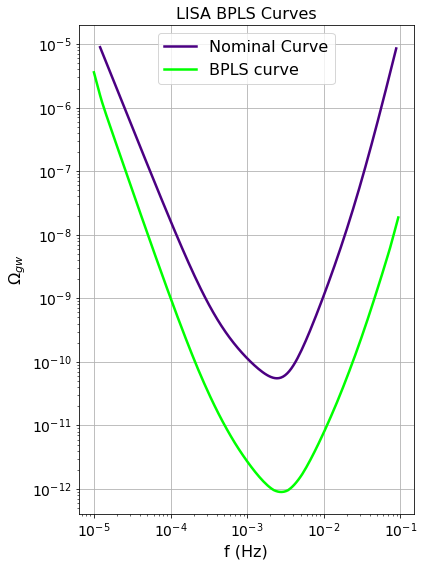
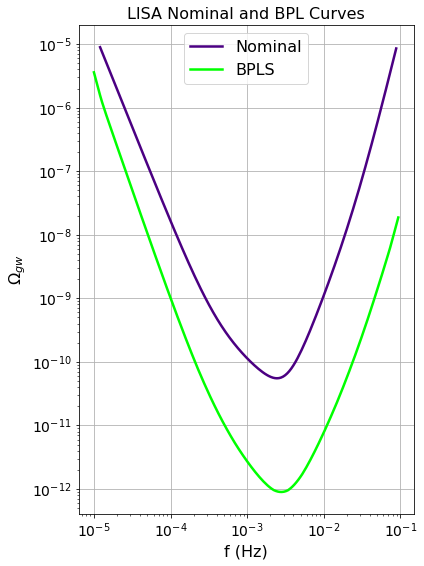
plot edits

Changed region(s): [[0.3066, 0.0, 0.8585, 0.1502]]

diff --git a/datafileBPLS.py b/datafileBPLS.py
@@ -179,11 +179,11 @@ fbplo = np.load("FtabLISA.npy")
 #%%
 
 plt.figure(figsize=(6, 9))
-plt.loglog(freqvals, sigvals, label = "Nominal Curve", color = "indigo", linewidth=2.5)
-plt.loglog(np.exp(fbplo[:,0]), np.exp(fbplo[:,1]), label = "BPLS curve", color = "lime", linewidth=2.5)
+plt.loglog(freqvals, sigvals, label = "Nominal", color = "indigo", linewidth=2.5)
+plt.loglog(np.exp(fbplo[:,0]), np.exp(fbplo[:,1]), label = "BPLS", color = "lime", linewidth=2.5)
 plt.grid(True)
-plt.title("LISA BPLS Curves", fontsize = 16)
-plt.legend(fontsize = 16)
+plt.title("LISA Nominal and BPL Curves", fontsize = 16)
+plt.legend(fontsize = 16, loc = "upper center")
 plt.xlabel('f (Hz)', fontsize = 16)
 plt.ylabel(r'$\Omega_{gw}$', fontsize = 16)
 plt.tick_params(axis='both', which='major', labelsize=14) 
